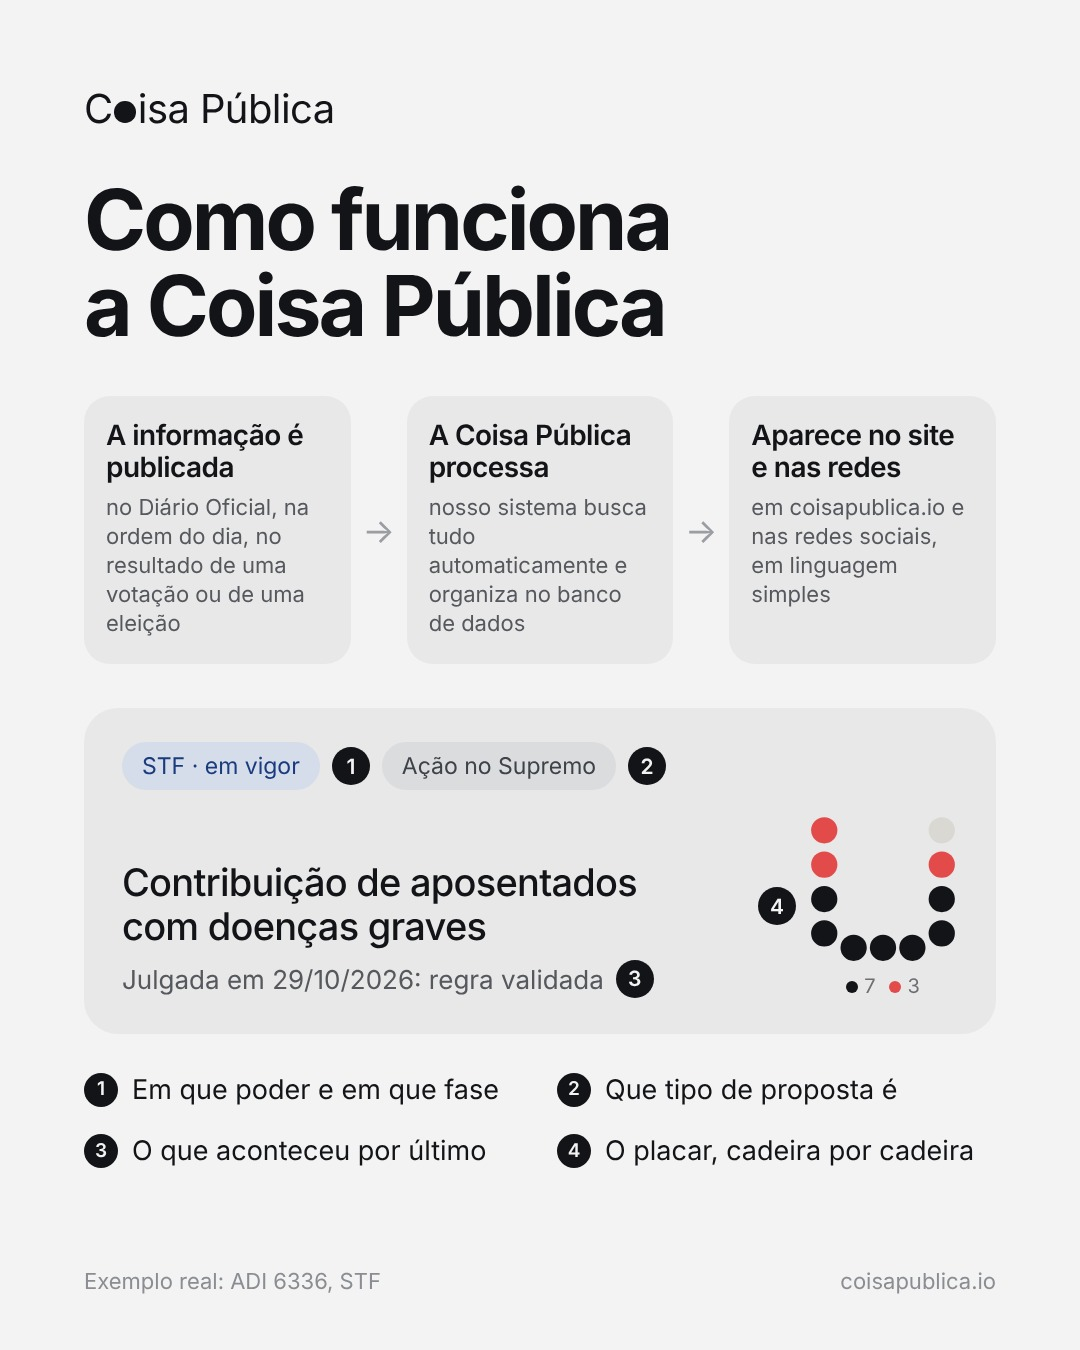
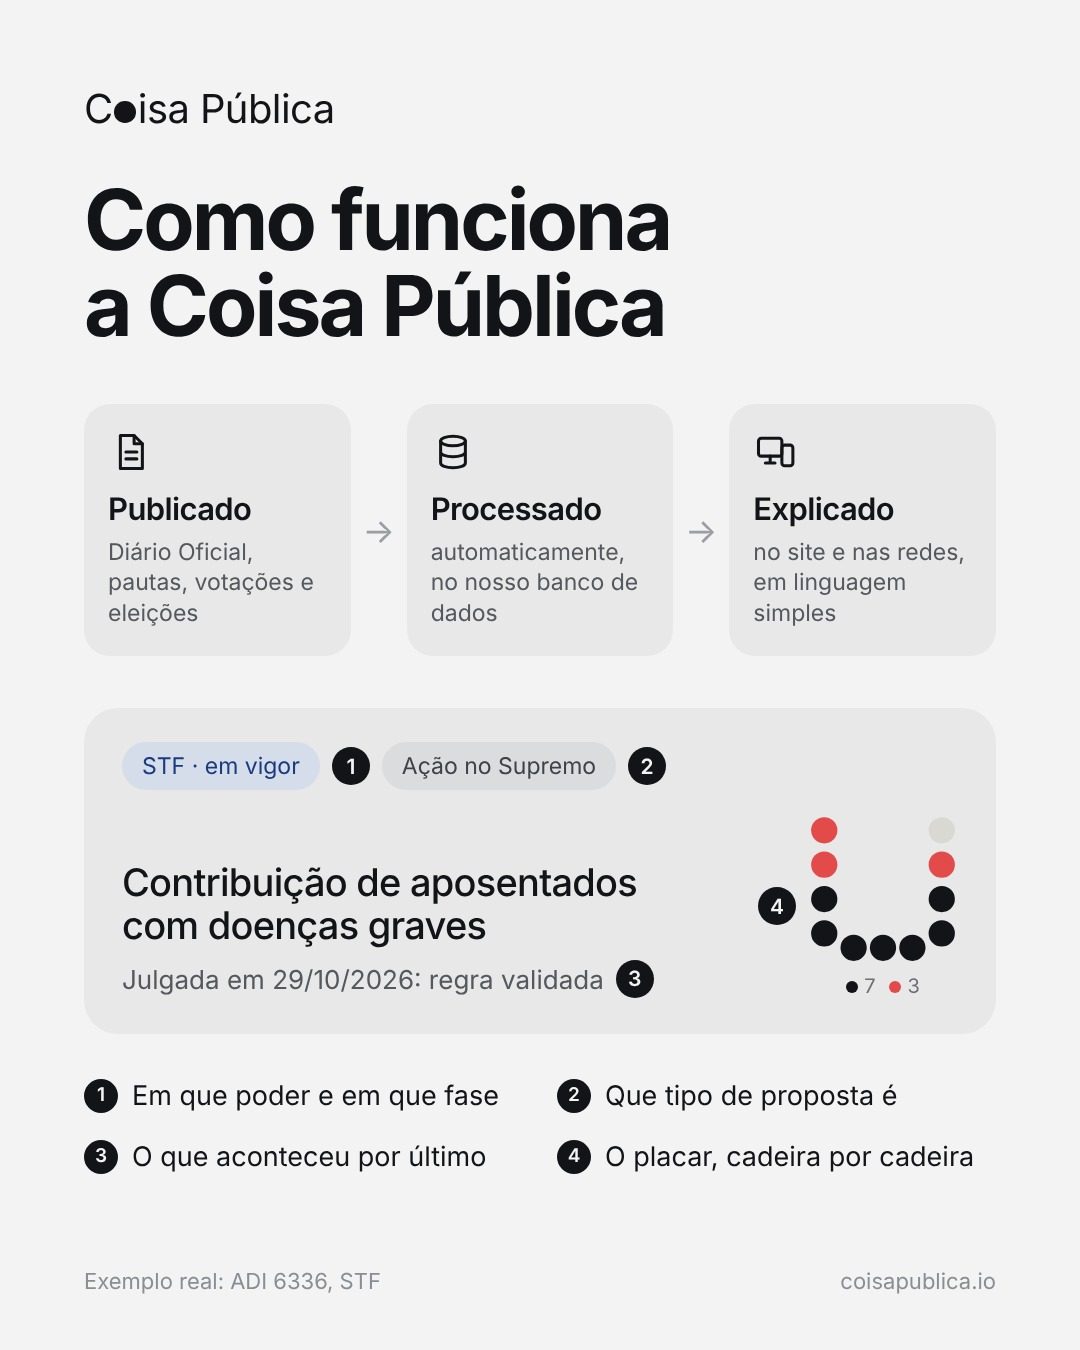
Post 2026-11-02-noite-extra: etapas mais curtas, com ícones
Claude-Session: https://claude.ai/code/session_01LhzKyHvExJb3TPhqkvRYrY

diff --git a/scripts/posts/especiais/como-funciona.js b/scripts/posts/especiais/como-funciona.js
@@ -13,12 +13,12 @@ const html = `<!doctype html><html><head><meta charset="utf-8"><style>
 body{width:1080px;height:1350px;background:#F3F3F3;color:#121417;font-family:"Helvetica Neue",Helvetica,Arial,sans-serif;position:relative;overflow:hidden;padding:84px}
 .logo{font-size:40px;letter-spacing:-.015em}.logo i{display:inline-block;width:.54em;height:.54em;border-radius:50%;background:#121417;margin:0 .045em}
 h1{margin:44px 0 0;font-size:84px;line-height:1.02;letter-spacing:-.035em;font-weight:700}
-.flow{margin-top:48px;display:grid;grid-template-columns:1fr 36px 1fr 36px 1fr;align-items:stretch;gap:10px}
-.step{background:color-mix(in srgb,#121417 5%,#F3F3F3);border-radius:26px;padding:24px 22px 26px}
-.step b{display:block;font-size:28px;line-height:1.12;letter-spacing:-.02em;font-weight:600;margin-bottom:10px}
-.step span{font-size:22px;line-height:1.32;color:#55585D}
+.flow{margin-top:56px;display:grid;grid-template-columns:1fr 36px 1fr 36px 1fr;align-items:stretch;gap:10px}
+.step{background:color-mix(in srgb,#121417 5%,#F3F3F3);border-radius:26px;padding:26px 24px 28px}.step svg{width:44px;height:44px;display:block;margin-bottom:18px}
+.step b{display:block;font-size:31px;line-height:1.12;letter-spacing:-.02em;font-weight:600;margin-bottom:10px}
+.step span{font-size:23px;line-height:1.32;color:#55585D}
 .arr{font-size:34px;color:#9A9DA1;text-align:center;align-self:center}
-.card{position:relative;margin-top:44px;background:color-mix(in srgb,#121417 5%,#F3F3F3);border-radius:34px;padding:34px 38px 36px}
+.card{position:relative;margin-top:52px;background:color-mix(in srgb,#121417 5%,#F3F3F3);border-radius:34px;padding:34px 38px 36px}
 .tags{display:flex;gap:12px;align-items:center}
 .pill{padding:10px 20px;border-radius:999px;font-size:23px}
 .jud{background:color-mix(in srgb,#1F4FB5 14%,#F3F3F3);color:color-mix(in srgb,#1F4FB5 66%,#121417)}
@@ -29,7 +29,7 @@ h1{margin:44px 0 0;font-size:84px;line-height:1.02;letter-spacing:-.035em;font-w
 .ux{display:flex;align-items:center;gap:12px}
 .leg{display:flex;gap:14px;justify-content:center;font-size:20px;color:#6E6F73;margin-top:6px}.leg i{display:inline-block;width:12px;height:12px;border-radius:50%;margin-right:6px}
 .n{display:inline-grid;place-items:center;width:38px;height:38px;border-radius:50%;background:#121417;color:#F3F3F3;font-style:normal;font-size:21px;font-weight:600;flex:none}
-.keys{margin-top:38px;display:grid;grid-template-columns:1fr 1fr;gap:26px 34px}
+.keys{margin-top:44px;display:grid;grid-template-columns:1fr 1fr;gap:26px 34px}
 .keys div{display:flex;gap:14px;align-items:center;font-size:27px;line-height:1.3}
 .keys .n{width:34px;height:34px;font-size:19px}
 .foot{position:absolute;left:84px;right:84px;bottom:56px;display:flex;justify-content:space-between;font-size:22px;color:#8A8D91}
@@ -37,9 +37,9 @@ h1{margin:44px 0 0;font-size:84px;line-height:1.02;letter-spacing:-.035em;font-w
 <div class="logo">C<i></i>isa Pública</div>
 <h1>Como funciona<br>a Coisa Pública</h1>
 <div class="flow">
-  <div class="step"><b>A informação é publicada</b><span>no Diário Oficial, na ordem do dia, no resultado de uma votação ou de uma eleição</span></div><div class="arr">→</div>
-  <div class="step"><b>A Coisa Pública processa</b><span>nosso sistema busca tudo automaticamente e organiza no banco de dados</span></div><div class="arr">→</div>
-  <div class="step"><b>Aparece no site e nas redes</b><span>em coisapublica.io e nas redes sociais, em linguagem simples</span></div>
+  <div class="step"><svg viewBox="0 0 32 32" fill="none" stroke="#121417" stroke-width="2.2" stroke-linecap="round" stroke-linejoin="round"><path d="M9 4h10l6 6v18H9z"/><path d="M19 4v6h6M13 16h8M13 21h8"/></svg><b>Publicado</b><span>Diário Oficial, pautas, votações e eleições</span></div><div class="arr">→</div>
+  <div class="step"><svg viewBox="0 0 32 32" fill="none" stroke="#121417" stroke-width="2.2" stroke-linecap="round" stroke-linejoin="round"><ellipse cx="16" cy="8" rx="9" ry="3.5"/><path d="M7 8v16c0 2 4 3.5 9 3.5s9-1.5 9-3.5V8M7 16c0 2 4 3.5 9 3.5s9-1.5 9-3.5"/></svg><b>Processado</b><span>automaticamente, no nosso banco de dados</span></div><div class="arr">→</div>
+  <div class="step"><svg viewBox="0 0 32 32" fill="none" stroke="#121417" stroke-width="2.2" stroke-linecap="round" stroke-linejoin="round"><rect x="4" y="6" width="17" height="13" rx="2"/><path d="M9 24h7M12.5 19v5"/><rect x="21" y="11" width="8" height="15" rx="2"/></svg><b>Explicado</b><span>no site e nas redes, em linguagem simples</span></div>
 </div>
 <div class="card">
   <div class="tags"><span class="pill jud">STF · em vigor</span>${n(1)}<span class="pill typ">Ação no Supremo</span>${n(2)}</div>
